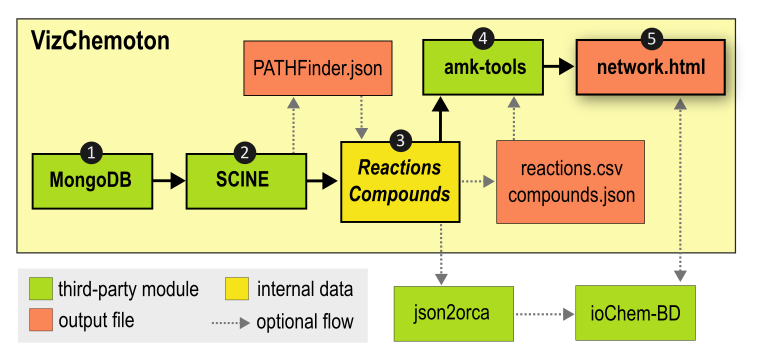
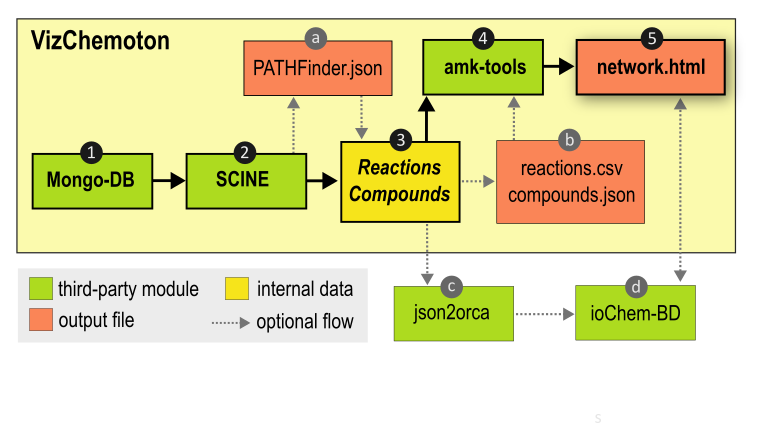
Updated with alphabetical indexes

diff --git a/README.md b/README.md
@@ -11,6 +11,20 @@ with the network **just via browser**.
 the right) the HTML file permits*
 
 
+## Table of Contents
+
+1. [Introduction](#introduction)
+   - [Introduction to Chemoton](#introduction-to-chemoton)
+   - [Introduction to amk-tools](#introduction-to-amk-tools)
+2. [Code Overview](#code-overview)
+3. [Dependencies](#dependencies)
+4. [Installation](#installation)
+5. [Usage of the HTML Files](#usage-of-the-html-files)
+6. [References](#references)
+7. [Support and Contact](support-and-contact)
+
+---
+
 ## Introduction to Chemoton
 
 The research group of Markus Reiher at ETH Zürich has developed a the software enviroment [SCINE](https://github.com/qcscine) ("Software for Chemical Interaction Networks")[1] which pursues the performance of quantum chemical calculations with special focus on algorithmic stability, automation, interactivity, efficiency and error control. In this context, Chemoton is the SCINE module in charge of exploring CRNs in a fully automated fashion based on first-principles.[2] 
@@ -30,8 +44,16 @@ The research group of Carles Bo at ICIQ (Tarragona, Spain) developed a library, 
 
 ## Code overview
 
-In the following Figure we describe the different modules -described above- that VizChemoton
-uses to generate the html files.
+In the following diagram we describe the modules that VizChemoton
+uses to generate the html file.
+The full workflow starts from querying the Mongo-DB *(1)* using the SCINE modules *(2)* to obtain the reactions
+and compounds of the reaction network. Because querying the Mongo-DB might be a time-consuming step, we 
+have enabled the option to export the network as a json file, so that for future runs, the network can 
+be directly imported *(a)*. The reaction and compounds data are also stored in a csv and json file respectively 
+*(b)*. This allows importing the reaction and compound data without querying Mongo-DB nor the 
+SCINE dependencies. To generate the visualization of the network, the amk-tools is called *(4)* which ultimately
+writes the html file *(5)*.
+
 
 ![Example Image](./docs/vizchemoton_architecture.png)
 
@@ -54,7 +76,9 @@ Dependencies are detailed in the requierements.txt file and in the table below.
 | scine-utilities      | 9.0.0   |
 
 
-## Instalation 
+## Installation 
+
+Here we provide a short installation guide for VizChemoton based on using an anaconda environment (e.g., my_env).
 
 ```bash
 
@@ -83,7 +107,10 @@ python3 -m pip install ./vizchemoton
 
 ```
 
-## Usage of the HTML files
+## Example
+
+Before running the code, the user must specify the location of the Mongo-DB (ip, port and name) and 
+the exploration parameters (method, basis set ...). Moreover, the 
 
 ```bash
 
@@ -95,6 +122,13 @@ python3 -m viz_chemoton.py
 
 ```
 
+The code render an html file, with the path and name specified by the user, which contains the compounds and 
+reactions of the reaction network. 
+
+### Usage of the HTML File
+
+
+
 ## References
 
 1. T. Weymuth, J. P. Unsleber, P. L. Türtscher, M. Steiner, J.-G. Sobez, C. H. Müller, M. Mörchen,
@@ -104,3 +138,8 @@ V. Klasovita, S. A. Grimmel, M. Eckhoff, K.-S. Csizi, F. Bosia, M. Bensberg, M. 
 (DOI: 10.48550/arXiv.2406.09541)
 4. Diego Garay-Ruiz, Moises Alvarez-Moreno, Carles Bo, Emilio Martinez-Nunez. *ACS Phys. Chem Au* **2022**, 2, 3, 225-236.
 5. E. Martínez-Núñez, G. L. Barnes, D. R. Glowacki, S. Kopec, D. Peláez, A. Rodríguez, R. Rodríguez-Fernández, R. J. Shannon, J. J. P. Stewart, P. G. Tahoces, S. A. Vazquez, *J. Comput. Chem.* **2021**, 42(28), 2036.
+
+## Support and Contact
+
+Should you find any problem or bug, please write a short message
+to [enric.petrus@eawag.ch](enric.petrus@eawag.ch) 
